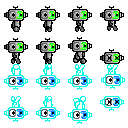
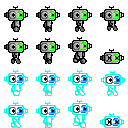
stuck now implemented inverted player sprite is now vertically flipped by program instead of being flipped in the png

diff --git a/src/TTL/GameObject/Player.java b/src/TTL/GameObject/Player.java
@@ -55,29 +55,28 @@ public class Player extends GameObject {
             Invert();
         }
         move();
-
-        // TODO: if stuck, change to stuck frame
-        sprite.SetState("" + (facingLeft ? '-' : '+') + '+' + ((int)currentFrame + frameOffset));
-
+        sprite.SetState("" + (facingLeft ? '-' : '+') + (inverted ? '-' : '+') + (stuck() ? 7 : (int)currentFrame + frameOffset));
         super.Update();
     }
 
     private void move() {
         // left / right
-        if (Game.instance.GameWindow.GetKeyHeld(GLFW_KEY_LEFT) ^ Game.instance.GameWindow.GetKeyHeld(GLFW_KEY_RIGHT)) {
+        boolean left = Game.instance.GameWindow.GetKeyHeld(GLFW_KEY_LEFT);
+        boolean right = Game.instance.GameWindow.GetKeyHeld(GLFW_KEY_RIGHT);
+        if (left ^ right && !stuck()) {
             for (int i = 0; i < MOVEMENTSPEED; i++) {
                 float increment = (i == (int)MOVEMENTSPEED) ? (MOVEMENTSPEED - (int)MOVEMENTSPEED) : 1;
-                increment *= Game.instance.GameWindow.GetKeyHeld(GLFW_KEY_LEFT) ? -1 : 1;
+                increment *= left ? -1 : 1;
                 Position.x += increment;
-                if ((Game.instance.GameWindow.GetKeyHeld(GLFW_KEY_LEFT) && (!isEmptySpace(ColBoxTopLeftPos()) || !isEmptySpace(ColBoxBottomLeftPos())))
-                 || (Game.instance.GameWindow.GetKeyHeld(GLFW_KEY_RIGHT) && (!isEmptySpace(ColBoxTopRightPos()) || !isEmptySpace(ColBoxBottomRightPos())))) {
+                if ((left && (!isEmptySpace(ColBoxTopLeftPos()) || !isEmptySpace(ColBoxBottomLeftPos())))
+                 || (right && (!isEmptySpace(ColBoxTopRightPos()) || !isEmptySpace(ColBoxBottomRightPos())))) {
                     Position.x -= increment;
                     currentFrame = 0;
                     break;
                 }
             }
 
-            facingLeft = Game.instance.GameWindow.GetKeyHeld(GLFW_KEY_LEFT);
+            facingLeft = left;
             currentFrame += FRAMESPEED;
             currentFrame %= 6;
         } else {
@@ -166,5 +165,16 @@ public class Player extends GameObject {
 
     private Level currentLevel() {
         return Game.instance.GetCurrentLevel();
+    }
+
+    private boolean stuck() {
+        for (int y = (int)(collisionBoxCornerA.y + Position.y); y <= collisionBoxCornerB.y + Position.y; y++) {
+            for (int x = (int)(collisionBoxCornerA.x + Position.x); x <= collisionBoxCornerB.x + Position.x; x++) {
+                if (!isEmptySpace(new Vector2(x, y))) {
+                    return true;
+                }
+            }
+        }
+        return false;
     }
 }
